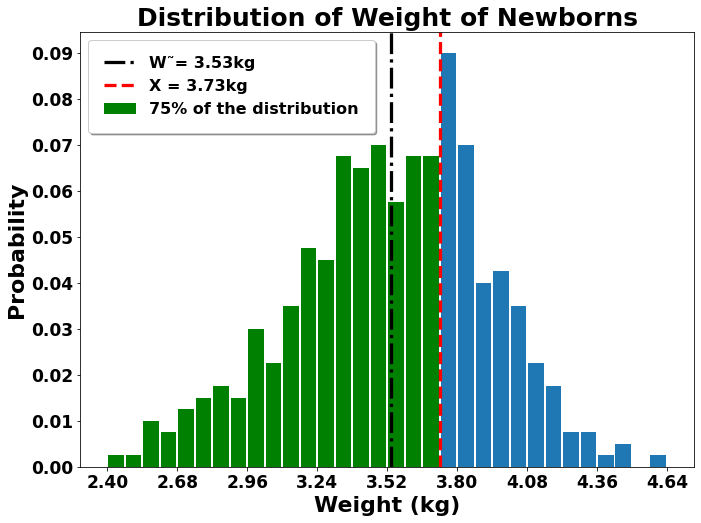
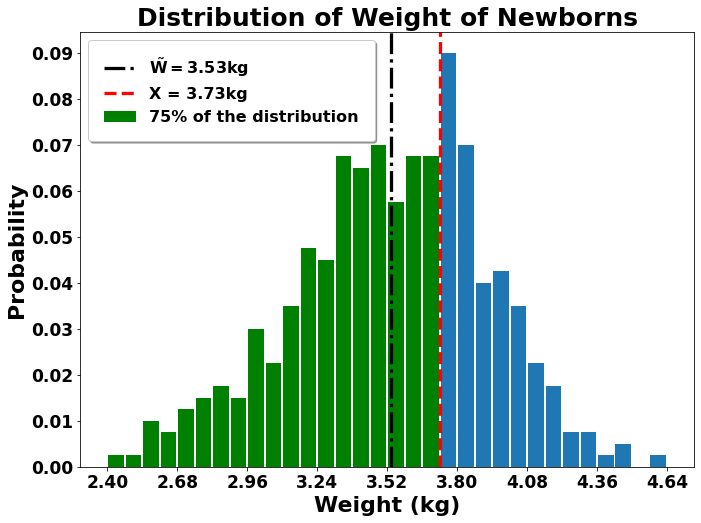
Add files via upload

Changed region(s): [[0.1198, 0.0918, 0.5392, 0.2753]]

diff --git a/22018497.py b/22018497.py
@@ -43,8 +43,7 @@ plt.title('Distribution of Weight of Newborns', fontsize=25)
 avg = np.sum(xdist * ydist)
 
 # plotting and displaying mean
-text1 = '''W˜= {}kg'''.format(np.round(avg, 2))
-# plt.text(x=3.05, y=0.0725, s=text1, fontsize=20, c='black')
+text1 = r'$\tilde{W} = $' + str(np.round(avg, 2)) + 'kg'
 plt.axvline(avg, c='black', lw=3.25, linestyle='-.', label=text1)
 
 
@@ -54,8 +53,7 @@ indx = np.argmin(np.abs(cdist - 0.75))
 X = edge[indx]
 
 # plotting and displaying X value
-text2 = '''X = {}kg'''.format(np.round(X, 2))
-# plt.text(x=X + 0.01, y=max(ydist) + 0.0008, s=text2, fontsize=19, c='red')
+text2 = 'X = {}kg'.format(np.round(X, 2))
 plt.axvline(X, c='red', lw=3.25, linestyle='--', label=text2)
 
 plt.bar(xdist[:indx], ydist[:indx], width=0.9*wdist[:indx], color='green',
@@ -65,6 +63,5 @@ plt.bar(xdist[:indx], ydist[:indx], width=0.9*wdist[:indx], color='green',
 # customising legend
 plt.legend(loc='upper left', fancybox=True, shadow=True, borderpad=1,
            fontsize=16)
-
 # showing the plot
 plt.show()
